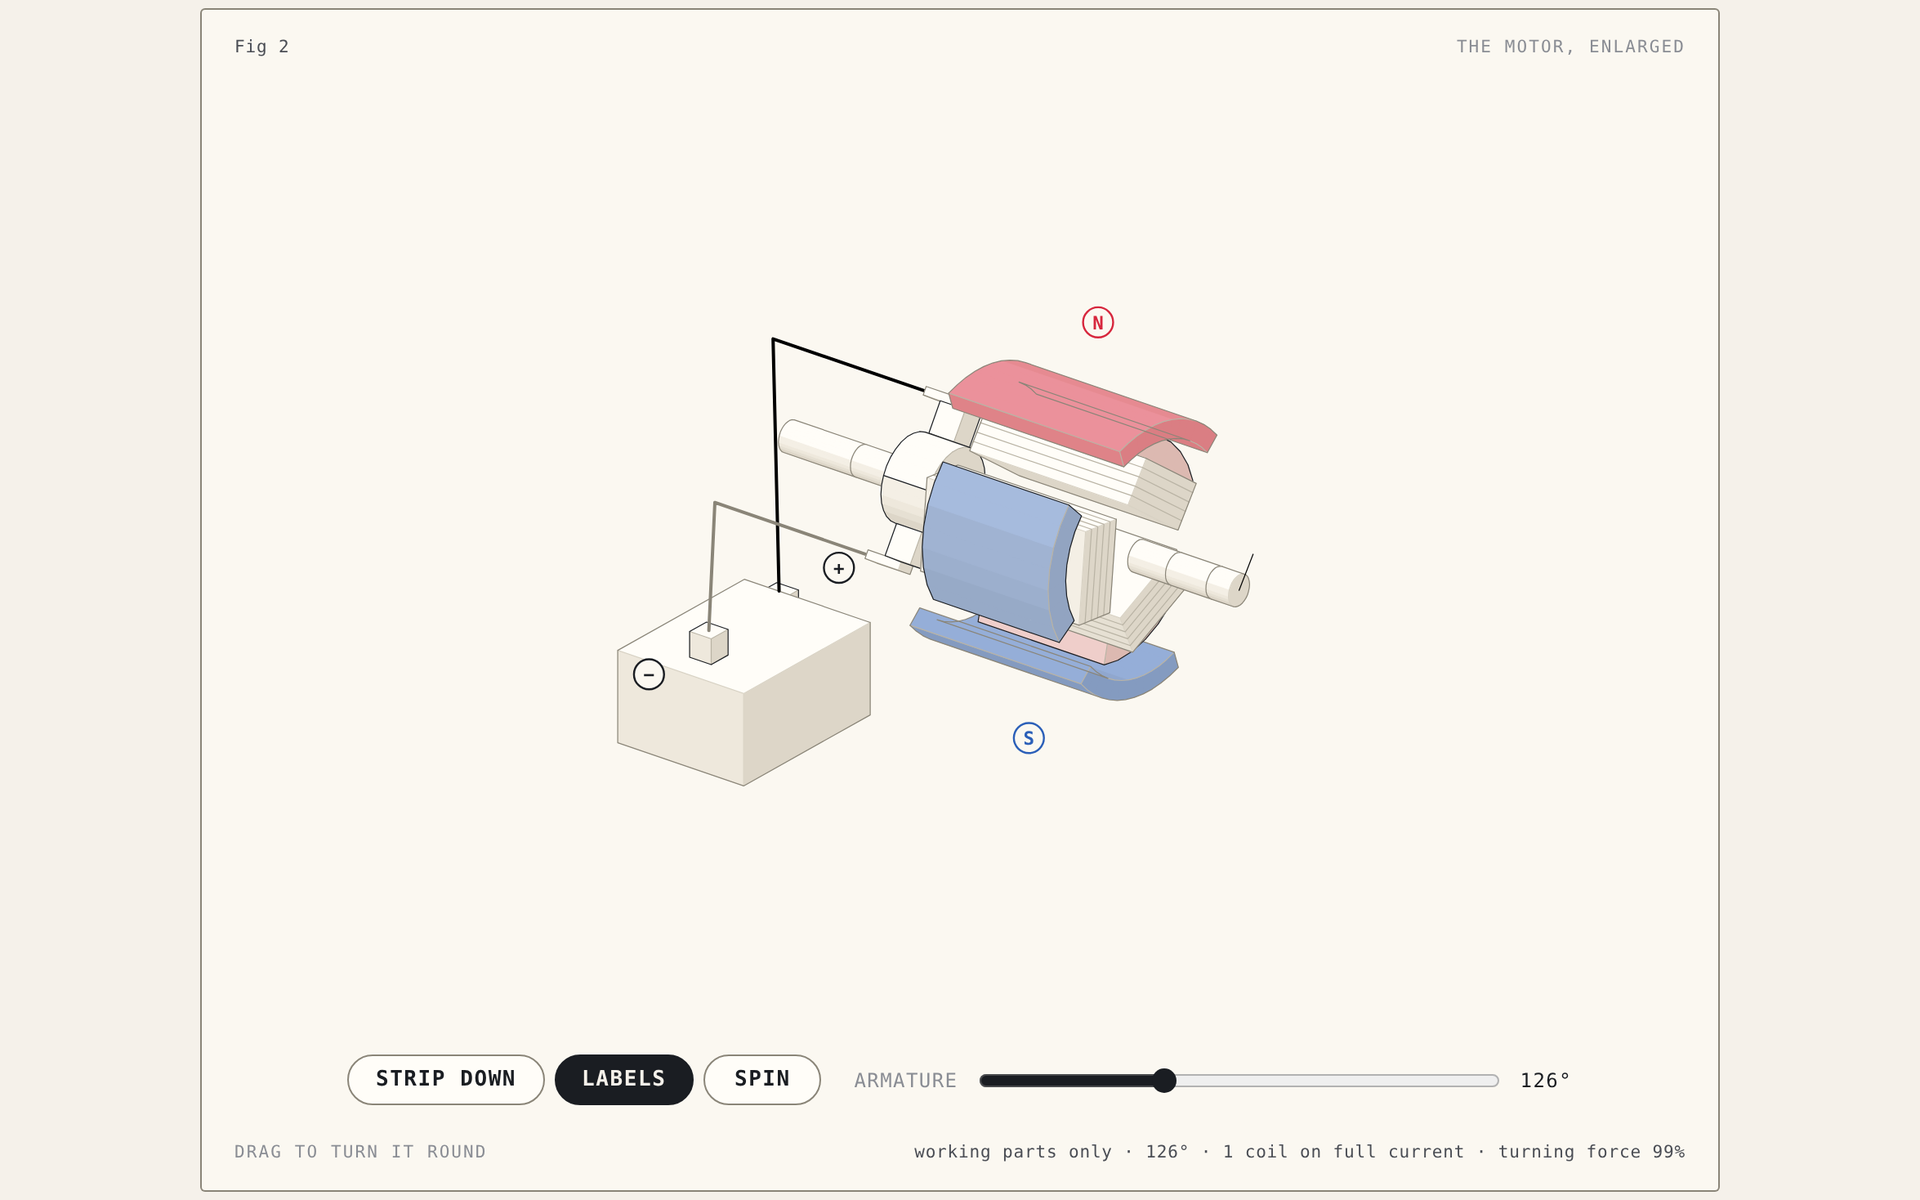
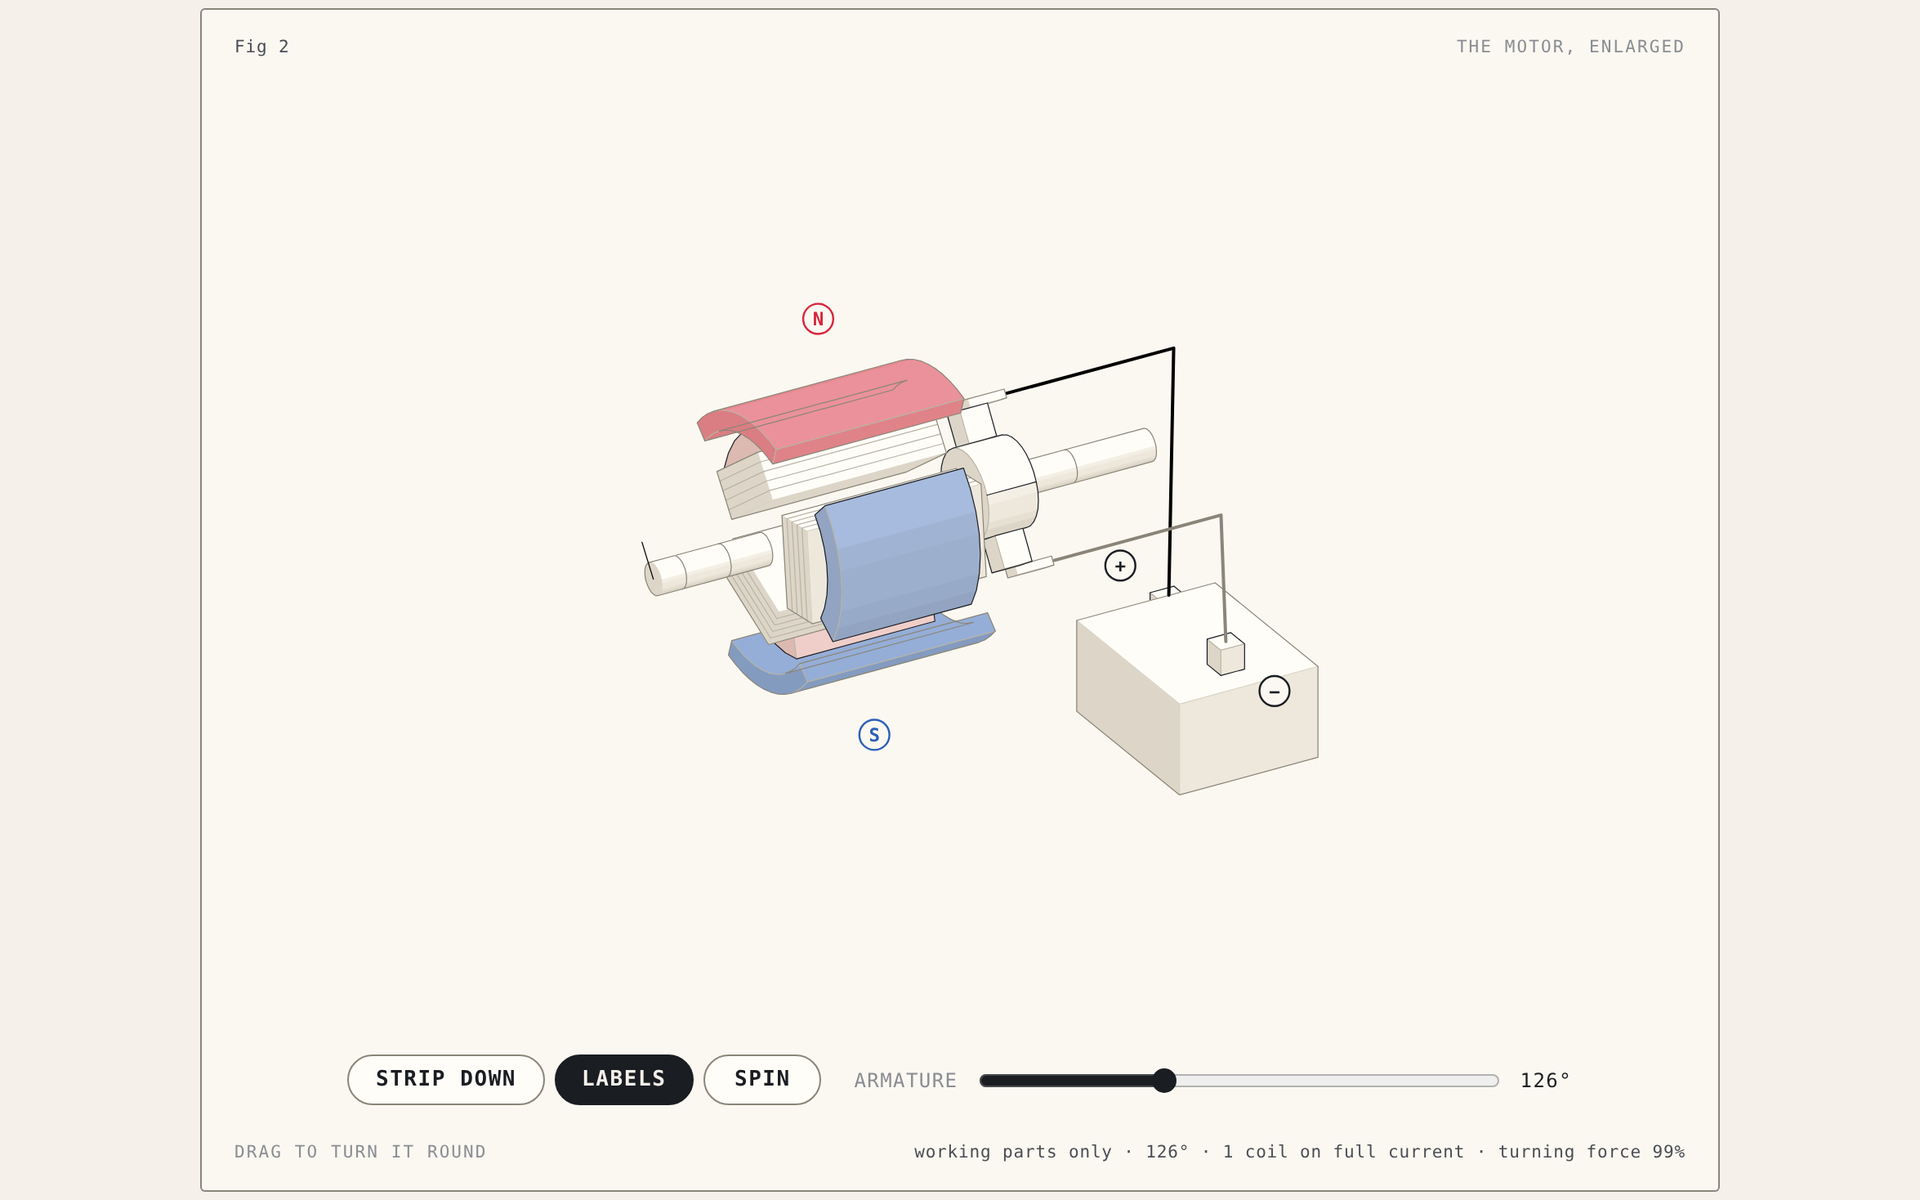
Hairdryer Anatomy: fix mirror-imaged 3D view
The 3D projection was left-handed, so the 3D motor turned the opposite
way to its own wiring diagram and Fleming's left-hand rule gave the wrong
answer on the 3D figures. The projection now uses the viewer's true
right-hand direction. Screenshot retaken; repo notes updated for this
and for the new simple-motor page.

Claude-Session: https://claude.ai/code/session_01LDE3JaWq7d2X1DqEiN11Pt

Changed region(s): [[0.3125, 0.2467, 0.6875, 0.6783], [0.3125, 0.555, 0.3438, 0.5858]]

diff --git a/hairdryer-anatomy/index.html b/hairdryer-anatomy/index.html
@@ -303,9 +303,12 @@ function cam(P) {
 }
 
 // World point -> screen point.
+// The viewer stands in the direction (cos a, sin a) from the origin, looking back at it, with z up.
+// Their right-hand side is then (-sin a, cos a), which keeps the picture right-handed,
+// so the 3D motor turns the same way as the end-on diagram in Fig 3.
 function flat(p, P) {
   const c = cam(P);
-  const sx = P.origin[0] + (p[0] * c.sa - p[1] * c.ca) * c.k;
+  const sx = P.origin[0] + (-p[0] * c.sa + p[1] * c.ca) * c.k;
   const sy = P.origin[1] + ((p[0] * c.ca + p[1] * c.sa) * c.se - p[2] * c.ce) * c.k;
   return [sx, sy];
 }

diff --git a/CLAUDE.md b/CLAUDE.md
@@ -11,6 +11,7 @@ Static site served from `main` via GitHub Pages.
 - `ks3-revision/`, `non-negotiables/`, `gcse-non-negotiables/`, `LEH-U4-Forces-and-motion-revision/` — the booklet/practice apps, each self-contained with its own README. `gcse-non-negotiables/` is the Non-negotiables app byte-for-byte (same `js/`, `css/`, `vendor/`) with its own `index.html`, `data/config.json` (title, lede, tier filter) and topic files; the app reads `data/config.json` on load, so keep the shared files in both folders identical when changing one. `LEH-U4-Forces-and-motion-revision/` (GCSE Revision; `gcse-revision/` is a redirect stub to it, kept so links shared before the rename still work) is the KS3 shell plus *bands* (sections grouped under headings with per-band numbering); content is authored in `tools/t2_*.py` and built with `tools/build_t2_forces_motion.py`. All three share one origin, so each uses its own localStorage prefix (`ks3-*`, `gcse-*`).
 - `lessons/` — self-paced animated "Cover Lessons" (`distance-time-graphs/`, `reflection-refraction-tir/`), each a single `index.html`; `lessons/vendor/` is the shared self-hosted KaTeX. Built with the `animated-physics-lesson` skill from the artifact pages: the artifact HTML is wrapped in doctype/head/body and `vendor/` paths become `../vendor/`. Edit the source lesson and re-wrap rather than editing the copy here.
 - `hairdryer-anatomy/` — "Hairdryer Anatomy": a single self-contained `index.html` (3D hairdryer and DC motor drawn live as SVG, plus a wiring diagram with a small 2D field solver). It is generated, not hand-written: the source (`geom.mjs`, `scene.js`, `field.mjs`, `live3d.js`, `page.css`, `build3d.mjs`) is kept in `hairdryer-anatomy/src/`. `build3d.mjs` there needs the Anatomy skill's kit (`iso-kit.mjs`, for its CSS and card markup) at the path in its import line; it writes `site/index.html`, which is copied to `hairdryer-anatomy/index.html`. Edit the source and rebuild rather than editing the built page. Uses the shared KaTeX at `../lessons/vendor/` and reads the gallery's `jsh-theme` localStorage key.
+- `simple-motor/` — "Simple Motor and Generator": the school DC motor (split-ring commutator) and AC generator (slip rings) as one 3D model with an end-on view and a step-through of the rings. Generated the same way as `hairdryer-anatomy/`: source in `simple-motor/src/` (`geom.mjs`, `motor.js`, `page.css`, `build.mjs`), built page copied to `simple-motor/index.html`. `geom.mjs` is shared in spirit with the hairdryer page (same projection and mesh painter); if you change one, check the other.
 - `annotate.html` — local-only authoring tool (NOT committed; see "Authoring annotations" below)
 - `.claude/launch.json` — local-only, used by Claude Preview tooling. Don't commit.
 
@@ -108,3 +109,8 @@ Big session — built out the entire pedagogy hotspot system end-to-end.
 ### 2026-11-11 (Fable 5.2)
 
 - Added `hairdryer-anatomy/` (Hairdryer Anatomy) as a Simulations card after Upthrust Derivation, plus `images/hairdryer-anatomy.png`. Three figures: a turnable 3D dryer with a working switch and solid / see-through / hidden casing; the DC motor enlarged, with a strip-down animation, N/S and +/− labels; and an end-on wiring diagram (three coils in a ring, three commutator segments, two brushes) with current dots and crosses, force arrows, and a field shown as curved lines, straight lines or a computed solution. Restyled from the artifact to the site's Fraunces / IBM Plex cream-and-ink look. Tested from a local server before pushing: no console errors, KaTeX renders, no sideways scroll at phone width.
+
+### 2026-11-12 (Fable 5.2)
+
+- Added `simple-motor/` (Simple Motor and Generator) as a Simulations card after Hairdryer Anatomy, plus `images/simple-motor.png`. One coil between two magnets; a Machine switch changes it between a DC motor with a split ring and an AC generator with slip rings. Force arrows and current markers vanish while the brushes are over the gaps in the split ring. Fig 3 steps through the rings stage by stage (seven stages for each machine); a comparison table sits at the bottom.
+- `hairdryer-anatomy/`: the 3D projection in `geom.mjs` was mirror-imaged (left-handed), so the 3D motor turned the opposite way to its own wiring diagram. Fixed (`flat()` now uses the viewer's true right-hand direction) and the screenshot retaken. The wiring diagram (Fig 3) was always correct.
